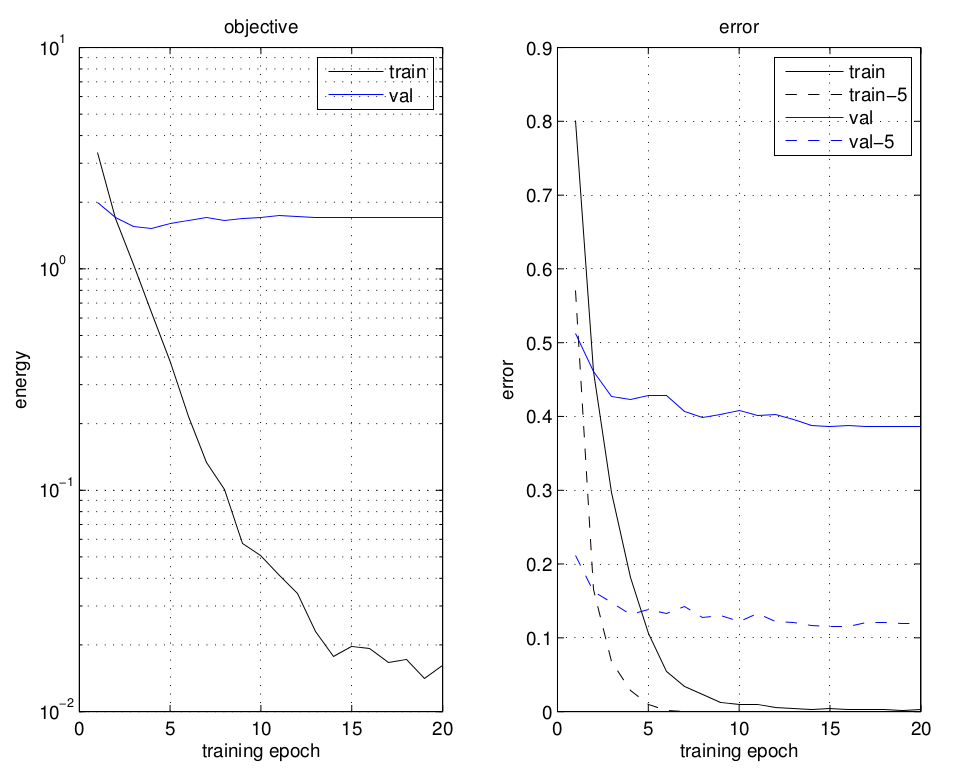
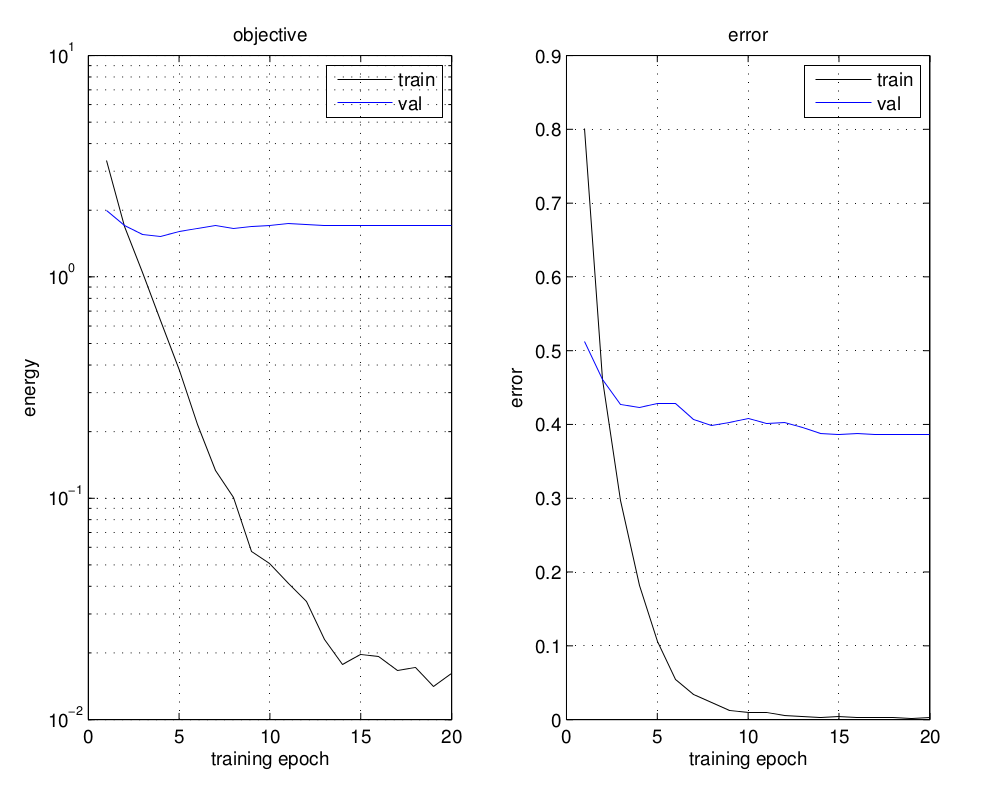
supp final

diff --git a/supp.tex b/supp.tex
@@ -62,9 +62,9 @@ First line of institution2 address\\
 We include additional details and diagnostic experiments on feature dimensionality, the effect of marginalization, and fine-tuning.
 
 \section{Feature dimension}
-Most existing methods that use CNNs as feature extractors work with the last layer (or the last fully connected layer), yeilding a feature vector of size 4096. Our multi-scale model generates a feature vector of size 9216, {\em making it a factor of 2 larger} and so quite easy to use in practice.
+Most existing methods that use CNNs as feature extractors work with the last layer (or the last fully connected layer), yielding a feature vector of size 4096. Our multi-scale model generates a feature vector of size 9216, {\em making it a factor of 2 larger} and so quite easy to use in practice.
 
-{\bf Details:} We provide the exact breakdown of feature dimensionality for our Caffe-DAG model. Our forward selection from  Fig. 7(a) (of the main paper) chooses 5 RelU layers, whos dimensionalities are given in Table.~\ref{table:feat_dim}.
+{\bf Details:} We provide the exact breakdown of feature dimensionality for our Caffe-DAG model. Our forward selection from  Fig. 7(a) (of the main paper) chooses 5 ReLU layers, whose dimensionality are given in Table.~\ref{table:feat_dim}.
 
 \begin{table}[htbp]
 \begin{center}
@@ -88,53 +88,84 @@ Total& & 181248 & 9216\\
 
 
 
-{\bf Full vs Marginal Features:} The above table suggests that it is crucial to use marginal features to keep the final dimensionality of the multi-scale feature manageable. A reasonable question is whether some performance is sacrificed for this reduced dimensionality. To evaluate this hypothesis, we build on the single-scale diagnostic experiments from our paper (Fig 3). Recall these experiments train and test an SVM on activations from a single-layer. We repeat these experiments using both full and marginal activation features each layer. For simplicity, we focus on 5 layers selected through forward selection (Table~\ref{table:perf_full}).
+{\bf Full vs Marginal Features:} The above table suggests that it is crucial to use marginal features to keep the final dimensionality of the multi-scale feature manageable. A reasonable question is whether some performance is sacrificed for this reduced dimensionality. To evaluate this hypothesis, we build on the single-scale diagnostic experiments from our paper (Fig 3). Recall these experiments train and test an SVM on activations from a single-layer. We repeat these experiments using both full and marginal activation features each layer. For simplicity, we focus on 5 layers selected through forward selection (Fig.~\ref{fig:full_marg}).
 
 %We then train 67-way one-vs-all linear SVM classifiers similar to the experimental setups in the Section 4 for each layer. The classification accuracy is reported in Table.~\ref{table:perf_full}. The performances are identical for Layer-18 and Layer-20 since the \textit{Full-} and \textit{Marginal-feature} are equivalent. Surprisingly, as seen from Table.~\ref{table:perf_full}, the marginal-features always out-perform the full-feature for Layer-11, Layer-13, and Layer-20. This suggests that the full-features is likely to suffer from the ``curse of dimensionality'' given fairly small amount of training data (approximately 5k for MIT67). Thus, choosing marginal over full feature not only improves the classification performance but also reduces feature dimension to manageable ranges. 
 
-\begin{table}[htbp]
-\begin{center}
-\begin{tabular}{|l|c|c|}
-\hline
-Layer & Full Feat. & Marginal Feat. \\
-\hline
-11 & 46.7 & 49.3  \\
-13 & 49.0 & 53.8  \\
-15 & 52.2 & 54.0  \\
-18 & 60.2 & 60.2  \\
-20 & 59.6 & 59.6  \\
+\begin{figure}[htbp]
+\centering
+	{\includegraphics[width=.8\columnwidth]{fig/full_marg.png}}
 
-\hline
-\end{tabular}
-\end{center}
-\caption{Single-scale classification accuracy (\%) of Full vs. Marginal Features. \deva{If we have time, perhaps show as a bar plot?}}
-\label{table:perf_full}
-\end{table}
+\caption{Single-scale classification accuracy (\%) of Full vs. Marginal Features.}
+\label{fig:full_marg}
+\end{figure}
 
- Perhaps suprisingly, we find that {\em marginal features always outperform the full dimensional feature}, implying that dimensinality reduction actually helps performance. We verified that this phenomena was due to overfitting; the full features always performed better on training data, but performed worse on test data. This suggests that with additional training data, the full-dimensionality features may perform better.
+
+%
+%\begin{table}[htbp]
+%\begin{center}
+%\begin{tabular}{|l|c|c|}
+%\hline
+%Layer & Full Feat. & Marginal Feat. \\
+%\hline
+%11 & 46.7 & 49.3  \\
+%13 & 49.0 & 53.8  \\
+%15 & 52.2 & 54.0  \\
+%18 & 60.2 & 60.2  \\
+%20 & 59.6 & 59.6  \\
+%
+%\hline
+%\end{tabular}
+%\end{center}
+%\caption{Single-scale classification accuracy (\%) of Full vs. Marginal Features. \deva{If we have time, perhaps show as a bar plot?}}
+%\label{table:perf_full}
+%\end{table}
+
+Surprisingly, we find that {\em marginal features always outperform the full dimensional feature}, implying that dimensionality reduction actually helps performance. We verified that this phenomena was due to over-fitting; the full features always performed better on training data, but performed worse on test data. This suggests that with additional training data, the full-dimensionality features may perform better.
 
 \section{Model fine-tuning}
 
 In this section, we further analyze ``off-the-shelf'' and ``fine-tuned'' versions of our multi-scale DAG model. Off-the-shelf models use multi-scale features extracted from pre-trained CNN (e.g., trained on ImageNet). Fine-tuned models retrain the entire DAG, in an end-to-end fashion, on the target dataset. For these experiments, our target dataset is MIT 67. 
 %we take a deep-dive and consider training our DAG-CNN model in the end-to-end fashion. Firstly, we compare training the Chain and DAG models with softmax loss. We term them \textit{fine-tune} models. Secondly, we use the fine-tune model for feature extraction and analyze the performance of single- and multi-scale fine-tune models. All the experiments in this section is conducted on MIT67. 
 
-\begin{table}[htbp]
-\begin{center}
-\begin{tabular}{|l|c|}
-\hline
-Structure & Accuracy \\
-\hline
-Off-the-shelf Caffe-Chain & 59.6   \\
-Fine-tuned Caffe-Chain & 61.7 \\
-Fine-tuned Caffe-DAG & 63.5\\
-\hline
-\end{tabular}
-\end{center}
-\caption{The comparison of fine-tune Models on MIT67. \deva{If we have time, perhaps show as a bar plot?}}
-\label{table:ft_models}
-\end{table}
 
-{\bf Fine-tuned DAG:} We train a multi-scale DAG-CNN by iterative fine-tuning, making use of a sequence of pre-trained models. We tabulate the results in Table~\ref{table:ft_models}. We begin with off-the-shelf Caffe model. Using a single output layer (as is standard practice) yeilds a classification accuracy of 59.6\%. Next, we use this model to initialize gradient-based ``fine-tuning'', using training data from MIT-67. This produces a small improvement to 61.7\%. We plot the training and testing accuracy during training epochs in Fig.~\ref{fig:ft_curve}-(a). Finally, we use this fine-tuned chain model to initialize gradient-based learning of a DAG-CNN. To do so, we add multi-scale connections to the chain-structured ``backbone'', as shown in Fig 8 (main paper). The multi-scale weights are initialized to 0, while all other weights in the model are left as-is. End-to-end fine-tuning of our DAG noticeably improves accuracy to 63.5\%. We plot training and testing accuracy during training epochs in Fig.~\ref{fig:ft_curve}-(b). These experiments validate our end-to-end multi-scale training.
+\begin{figure}[htbp]
+\centering
+	{\includegraphics[width=.75\columnwidth]{fig/ft_model.png}}
+
+\caption{The comparison of fine-tune Models on MIT67.}
+\label{fig:ft_model}
+\end{figure}
+
+
+%\begin{table}[htbp]
+%\begin{center}
+%\begin{tabular}{|l|c|}
+%\hline
+%Structure & Accuracy \\
+%\hline
+%Off-the-shelf Caffe-Chain & 59.6   \\
+%Fine-tuned Caffe-Chain & 61.7 \\
+%Fine-tuned Caffe-DAG & 63.5\\
+%\hline
+%\end{tabular}
+%\end{center}
+%\caption{The comparison of fine-tune Models on MIT67. \deva{If we have time, perhaps show as a bar plot?}}
+%\label{table:ft_models}
+%\end{table}
+
+\begin{figure}[t]
+\centering
+	\subfigure[Chain]{\includegraphics[width=.9\columnwidth]{fig/ft_chain.png}\label{fig:ft_chain}}
+	\subfigure[DAG]{\includegraphics[width=.9\columnwidth]{fig/ft_DAG.png}\label{fig:ft_dag}}
+
+\caption{Fine-tuning Caffe models on MIT67. The left shows the objectives for training and validation set for each epoch; the right shows the corresponding training and validation error.}
+\label{fig:ft_curve}
+\end{figure}
+
+{\bf Fine-tuned DAG:} We train a multi-scale DAG-CNN by iterative fine-tuning, making use of a sequence of pre-trained models. We show the results in Fig.~\ref{fig:ft_model}. We begin with off-the-shelf Caffe model. Using a single output layer (as is standard practice) yields a classification accuracy of 59.6\%. Next, we use this model to initialize gradient-based ``fine-tuning'', using training data from MIT-67. This produces a small improvement to 61.7\%. We plot the training and testing accuracy during training epochs in Fig.~\ref{fig:ft_chain}. Finally, we use this fine-tuned chain model to initialize gradient-based learning of a DAG-CNN. To do so, we add multi-scale connections to the chain-structured ``backbone'', as shown in Fig 8 (main paper). The multi-scale weights are initialized to small random numbers, while all other weights in the model are left as-is. End-to-end fine-tuning of our DAG noticeably improves accuracy to 63.5\%. We plot training and testing accuracy during training epochs in Fig.~\ref{fig:ft_dag}. These experiments validate our end-to-end multi-scale training.
+
+
 
 {\bf Off-the-shelf vs fine-tuned DAG:} However, an off-the-shelf DAG performs just as well (or even marginally better than) our fine-tuned DAG. As listed in our main paper, an off-the-shelf DAG produces an accuracy of 64.6. This suggests that while single-scale features don't transfer that well (from ImageNet to MIT67), multi-scale features transfer quite well between the two datasets. In fact, {\em multi-scale features transfer so well that no fine-tuning is apparently needed}. This validates our original hypotheses: multi-scale features are important for learning a generic feature extractor.%, that is applicable to a wide variety of recognition problems (that require both coarse and fine spatial reasoning).
 
@@ -146,14 +177,7 @@ Fine-tuned Caffe-DAG & 63.5\\
 %We use the generalized back-propagation algorithm presented in Section 3 to ``fine-tune'' the \textit{DAG} model on MIT67. In comparison, the traditional \textit{Chain} model is also fine-tuned in the same fashion. The data pre-processing step is the same as the one described in Section 4. To prevent over-fitting~\cite{AlexNet}, a dropout layer is inserted after the last FC layer, with the dropout rate of 0.5. The fine-tune chain model is initialized with the pre-trained Caffe model on ImageNet. As we can see from Fig.~\ref{fig:ft_chain}, the final accuracy saturates at 60.7\%. We then initialized our DAG model training with the fine-tuned chain model. As seen from the learning curve shown in Fig.~\ref{fig:ft_dag}, the DAG model stimulates the saturated Chain model and continues to drive the classification performance. Overall, the Caffe-DAG model out-performs the Caffe-Chain, as seen in Table.~\ref{table:ft_models}.
 
 
-\begin{figure}
-\centering
-	\subfigure[Chain]{\includegraphics[width=.9\columnwidth]{fig/ft_chain.png}\label{fig:ft_chain}}
-	\subfigure[DAG]{\includegraphics[width=.9\columnwidth]{fig/ft_DAG.png}\label{fig:ft_dag}}
 
-\caption{Fine-tuning Caffe models on MIT67. The left shows the objectives for training and validation set for each epoch; the right shows the corresponding top-1/top-5 training and validation error. \deva{If we have time, remove top-5 from plot.}}
-\label{fig:ft_curve}
-\end{figure}
 
 
 %\subsection{Fine-tuning vs. Off-the-shelf} 
@@ -247,9 +271,9 @@ Fine-tuned Caffe-DAG & 63.5\\
 
 
 
-{\small
-\bibliographystyle{ieee}
-\bibliography{mobib}
-}
+%{\small
+%\bibliographystyle{ieee}
+%\bibliography{mobib}
+%}
 
 \end{document}
